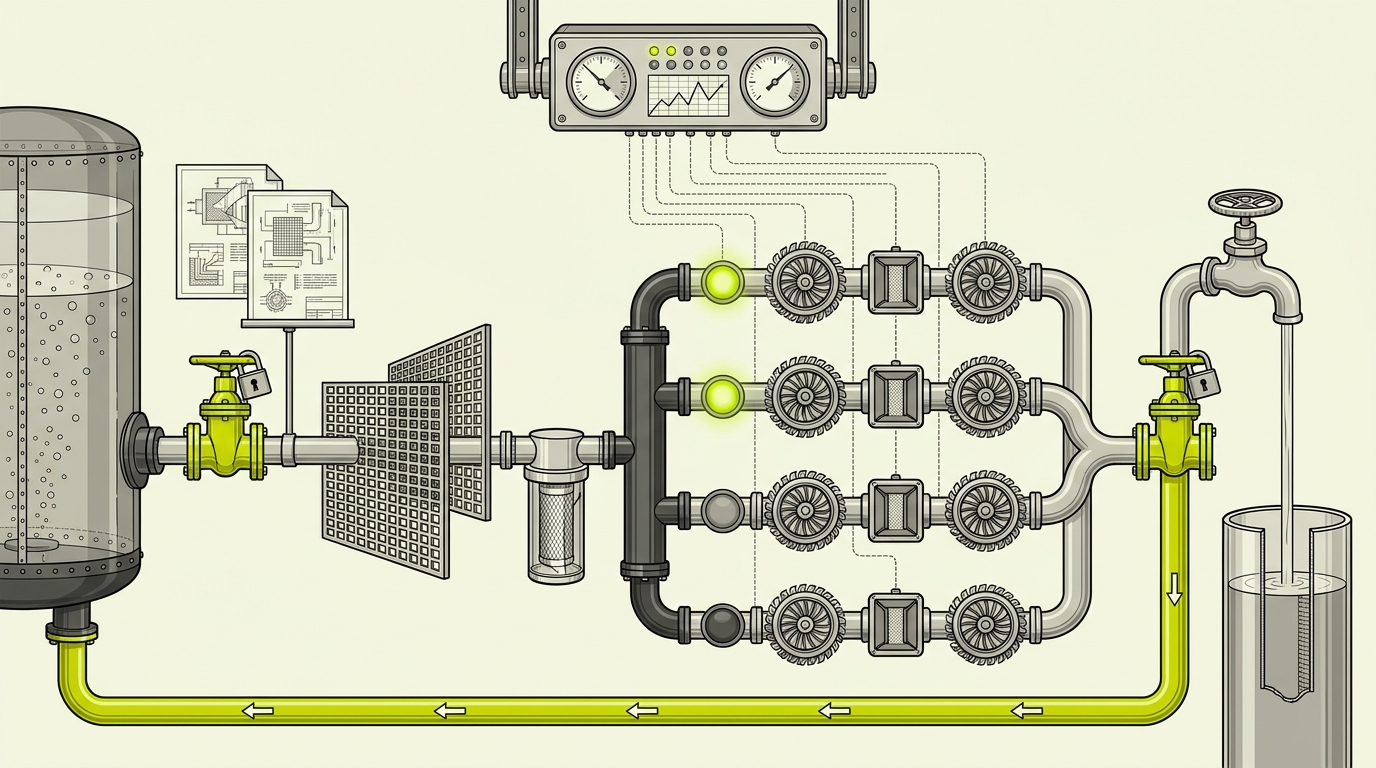
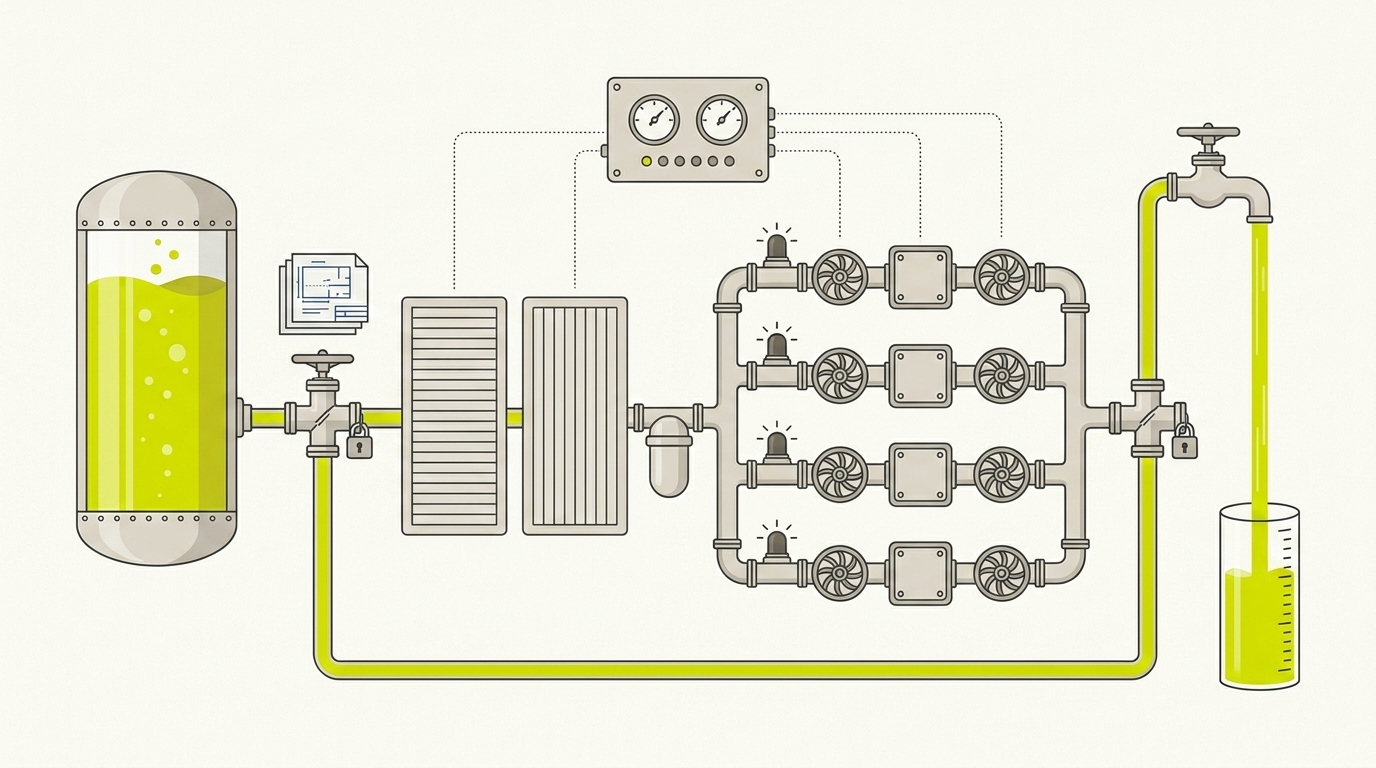
docs(site): rework the landing-page pipeline diagram
Rebuild docs/site/index.html with an accurate, fully labeled rig diagram —
a regenerated base illustration (horizontal flow, unlit lamp sockets,
dashboard with terminal nubs) under an inline SVG overlay: numbered stage
labels (Think Tank, PRD Diverter Valve, Planning Matrix, Matrix Analysis,
Sequencer Manifold, Build Loop Turbines, Product Diverter Valve, Autorun,
Recirculate), blinking red/green status lights, GitHub Dashboard sensor
wiring (one clean line per terminal nub), recirculate backflow arrows, and
the build-triplet labels. Editorial OWF styling: electric-blue links +
charcoal stats band.

Consolidate the diagram to docs/site/pipeline-base.png and drop the gen-*
scratch renders.

Claude-Session: https://claude.ai/code/session_01Ng2U4CPTSV6EtG5GEVta48

diff --git a/docs/site/index.html b/docs/site/index.html
@@ -225,7 +225,7 @@
       <span class="eyebrow">The whole pipeline, one picture</span>
       <div class="diagram" style="margin-top:var(--sp-8)">
         <figure class="diagram-fig">
-          <img src="pipeline-gen-2.png" alt="The IDC pipeline as a labeled rig: an idea enters the Think tank, passes the one gate (the Think PR, holding the locked PRD and TRD), runs through the planning matrix and matrix-analysis filter, fans through the sequencer into four parallel build waves (each lamp then implementer, review, and finisher), reaches the ship-or-return gate, ships through the Autorun faucet into your repo, with a recirculate return path along the bottom and a dashboard wiring sensors to every stage.">
+          <img src="pipeline-base.png" alt="The IDC pipeline as a labeled rig: an idea enters the Think tank, passes the one gate (the Think PR, holding the locked PRD and TRD), runs through the planning matrix and matrix-analysis filter, fans through the sequencer into four parallel build waves (each lamp then implementer, review, and finisher), reaches the ship-or-return gate, ships through the Autorun faucet into your repo, with a recirculate return path along the bottom and a dashboard wiring sensors to every stage.">
           <svg class="overlay" viewBox="0 0 1376 768" preserveAspectRatio="xMidYMid meet" aria-hidden="true">
             <defs>
               <marker id="ah" markerWidth="11" markerHeight="11" refX="6.5" refY="3.5" orient="auto" markerUnits="userSpaceOnUse">
@@ -238,6 +238,12 @@
 
             <!-- hide the padlock on valve #2 (Product Diverter Valve is automerge-gated, not user-gated) -->
             <rect x="1152" y="409" width="55" height="64" fill="#faf9f1"/>
+
+            <!-- de-clutter the dashboard fan: cover the crossing painted lines, redraw 3 clean ones (one per nub, farthest on top) -->
+            <rect x="776" y="102" width="240" height="132" fill="#f9f8f1"/>
+            <path class="sensor" d="M770,113 L998,113 Q1010,113 1010,125 L1010,233"/>
+            <path class="sensor" d="M770,133 L908,133 Q920,133 920,145 L920,233"/>
+            <path class="sensor" d="M770,149 L834,149 Q846,149 846,161 L846,233"/>
 
             <!-- sensor lines: GitHub Dashboard monitors every stage; Think Tank + PRD plug into the panel's left terminals -->
             <rect x="599" y="118" width="9" height="16" rx="2.5" fill="#d9d1c5" stroke="#4f4d47" stroke-width="1.5"/>
@@ -292,8 +298,8 @@
             <g class="lbl"><line class="lead" x1="724" y1="392" x2="700" y2="234"/><circle class="dot" cx="724" cy="392" r="5.5"/>
               <text class="lab" x="520" y="216">05 · Sequencer Manifold</text></g>
 
-            <g class="lbl"><line class="lead" x1="1140" y1="412" x2="1116" y2="544"/><circle class="dot" cx="1140" cy="412" r="5.5"/>
-              <text class="lab" x="1090" y="566">07 · Product</text><text class="lab" x="1090" y="588">Diverter Valve</text><text class="sub" x="1090" y="608">ship or recirculate</text></g>
+            <g class="lbl"><line class="lead" x1="1140" y1="406" x2="1100" y2="360"/><circle class="dot" cx="1140" cy="406" r="5.5"/>
+              <text class="lab" x="1097" y="312" text-anchor="middle" style="font-size:15px">07 · Product</text><text class="lab" x="1097" y="332" text-anchor="middle" style="font-size:15px">Diverter Valve</text><text class="sub" x="1097" y="350" text-anchor="middle">ship or recirculate</text></g>
 
             <g class="lbl"><line class="lead" x1="1212" y1="150" x2="1264" y2="112"/><circle class="dot" cx="1212" cy="150" r="5.5"/>
               <text class="lab" x="1356" y="108" text-anchor="end">08 · Autorun</text></g>